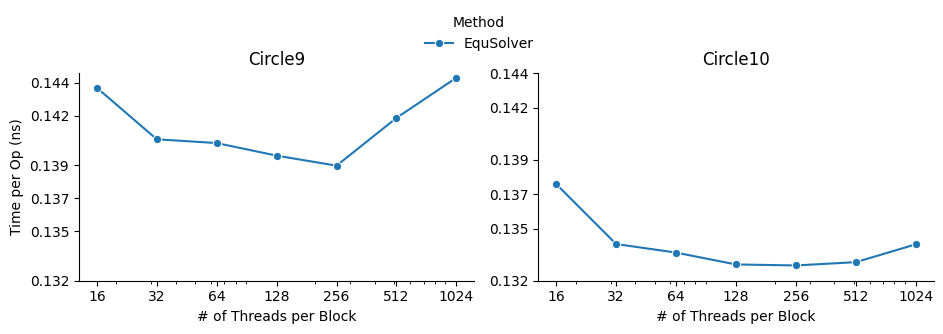
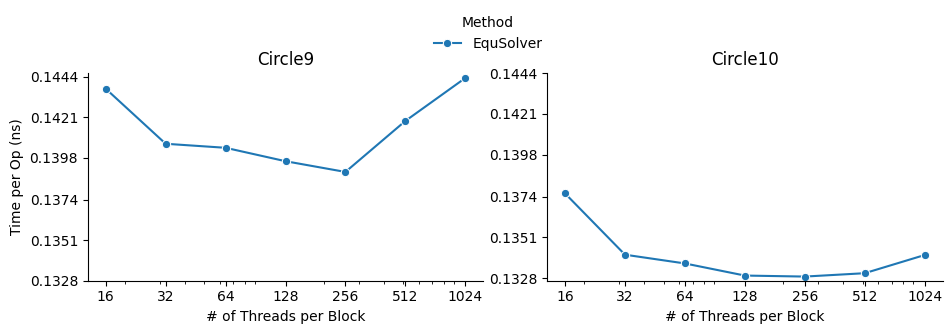
add numba benchmark result

diff --git a/docs/image/plot.py b/docs/image/plot.py
@@ -76,6 +76,8 @@ def benchmark():
   base = []
   for i in [1, 2, 4, 5]:
     base.append(parse_table(raw[i], "benchmark"))
+  tmin = min([i[1] for i in base])
+  tmax = max([i[2] for i in base])
   data = pd.DataFrame(data)
   print(data)
   g = sns.FacetGrid(
@@ -91,10 +93,11 @@ def benchmark():
   g.map(sns.lineplot, "Problem Size", "Time per Op (ns)", marker="o")
 
   g.set_axis_labels("Problem Size", "Time per Op (ns)")
-  g.add_legend(bbox_to_anchor=(0.52, 1.02), ncol=7)
+  g.add_legend(bbox_to_anchor=(0.52, 1.02), ncol=8)
   axes = g.axes.flatten()
   for ax, b in zip(axes, base):
-    b, tmin, tmax = b
+    # b, tmin, tmax = b
+    b = b[0]
     y = np.logspace(math.log10(tmin), math.log10(tmax), 6)
     y = (y * 100).astype(int) / 100.
     ax.set(xscale="log", yscale="log")
@@ -151,8 +154,8 @@ def ablation(backend, new_col):
       y = (y * 100).astype(int) / 100.
       ax.set(xscale="log", yscale="log")
     else:
-      y = np.linspace(tmin, tmax, 6)
-      y = (y * 1000).astype(int) / 1000.
+      y = np.linspace(tmin, tmax + 0.0001, 6)
+      y = (y * 10000).astype(int) / 10000.
       ax.set(xscale="log")
     ax.set(xticks=b, yticks=y)
     ax.set(xticklabels=b, yticklabels=y)

diff --git a/fpie/__init__.py b/fpie/__init__.py
@@ -1,1 +1,1 @@
-__version__ = "0.2.1"
+__version__ = "0.2.2"

diff --git a/docs/benchmark/README.md b/docs/benchmark/README.md
@@ -37,6 +37,9 @@ The benchmark commands for squareX and circleX:
 # numpy
 fpie -s square10.png -t square10.png -m square10.png -o result.png -n 5000 -b numpy --method equ
 fpie -s circle10.png -t circle10.png -m circle10.png -o result.png -n 5000 -b numpy --method equ
+# numba
+fpie -s square10.png -t square10.png -m square10.png -o result.png -n 5000 -b numba --method equ
+fpie -s circle10.png -t circle10.png -m circle10.png -o result.png -n 5000 -b numba --method equ
 # gcc
 fpie -s square10.png -t square10.png -m square10.png -o result.png -n 5000 -b gcc --method equ
 fpie -s circle10.png -t circle10.png -m circle10.png -o result.png -n 5000 -b gcc --method equ
@@ -63,6 +66,7 @@ fpie -s circle10.png -t circle10.png -m circle10.png -o result.png -n 5000 -b ta
 | ---------- | ------- | ------- | -------- | -------- | --------- |
 | # of vars  | 4097    | 16385   | 65537    | 262145   | 1048577   |
 | NumPy      | 0.8367s | 3.2142s | 12.1836s | 52.4939s | 230.5375s |
+| Numba      | 0.7257s | 1.9472s | 7.0761s  | 32.4084s | 149.3390s |
 | GCC        | 0.0740s | 0.3013s | 1.2061s  | 5.0351s  | 22.0276s  |
 | OpenMP     | 0.0176s | 0.0423s | 0.1447s  | 0.5835s  | 8.6203s   |
 | MPI        | 0.0127s | 0.0488s | 0.1757s  | 0.8253s  | 8.3310s   |
@@ -76,6 +80,7 @@ fpie -s circle10.png -t circle10.png -m circle10.png -o result.png -n 5000 -b ta
 | ---------- | ------- | ------- | -------- | -------- | --------- |
 | # of vars  | 4256    | 16676   | 65972    | 262338   | 1049486   |
 | NumPy      | 0.8618s | 3.2280s | 12.5615s | 52.7161s | 226.5578s |
+| Numba      | 0.7430s | 1.9789s | 7.1499s  | 32.1932s | 132.7537s |
 | GCC        | 0.0764s | 0.3062s | 1.2115s  | 4.9785s  | 22.1516s  |
 | OpenMP     | 0.0179s | 0.0391s | 0.1301s  | 0.5177s  | 8.2778s   |
 | MPI        | 0.0131s | 0.0494s | 0.1767s  | 0.8155s  | 8.3823s   |
@@ -93,6 +98,9 @@ The benchmark commands for squareX and circleX:
 # numpy
 fpie -s square10.png -t square10.png -m square10.png -o result.png -n 5000 -b numpy --method grid
 fpie -s circle10.png -t circle10.png -m circle10.png -o result.png -n 5000 -b numpy --method grid
+# numba
+fpie -s square10.png -t square10.png -m square10.png -o result.png -n 5000 -b numba --method grid
+fpie -s circle10.png -t circle10.png -m circle10.png -o result.png -n 5000 -b numba --method grid
 # gcc
 fpie -s square10.png -t square10.png -m square10.png -o result.png -n 5000 -b gcc --method grid --grid-x 8 --grid-y 8
 fpie -s circle10.png -t circle10.png -m circle10.png -o result.png -n 5000 -b gcc --method grid --grid-x 8 --grid-y 8 
@@ -119,6 +127,7 @@ fpie -s circle10.png -t circle10.png -m circle10.png -o result.png -n 5000 -b ta
 | ---------- | ------- | ------- | -------- | -------- | --------- |
 | # of vars  | 4356    | 16900   | 66564    | 264196   | 1052676   |
 | NumPy      | 0.7809s | 2.8823s | 12.3242s | 51.7496s | 209.5504s |
+| Numba      | 1.5838s | 6.0720s | 24.0901s | 99.5048s | 410.6119s |
 | GCC        | 0.0884s | 0.3504s | 1.3832s  | 5.5402s  | 24.6482s  |
 | OpenMP     | 0.0177s | 0.0547s | 0.2011s  | 0.7805s  | 5.4012s   |
 | MPI        | 0.0136s | 0.0516s | 0.1999s  | 0.7956s  | 5.4109s   |
@@ -128,22 +137,23 @@ fpie -s circle10.png -t circle10.png -m circle10.png -o result.png -n 5000 -b ta
 
 <!--benchmark-->
 
-| GridSolver | circle6 | circle7 | circle8  | circle9  | circle10  |
-| ---------- | ------- | ------- | -------- | -------- | --------- |
-| # of vars  | 5476    | 21316   | 84100    | 335241   | 1338649   |
-| NumPy      | 0.8554s | 3.0602s | 13.1915s | 55.3018s | 224.0399s |
-| GCC        | 0.0997s | 0.3768s | 1.4753s  | 5.8558s  | 25.1236s  |
-| OpenMP     | 0.0219s | 0.0670s | 0.2498s  | 0.9838s  | 6.0868s   |
-| MPI        | 0.0155s | 0.0614s | 0.2446s  | 0.9810s  | 5.8527s   |
-| CUDA       | 0.0113s | 0.0150s | 0.0334s  | 0.1507s  | 0.5954s   |
-| Taichi-CPU | 0.5558s | 0.8727s | 1.6317s  | 4.8740s  | 20.2178s  |
-| Taichi-GPU | 0.6447s | 0.6418s | 0.6521s  | 0.8309s  | 1.3578s   |
+| GridSolver | circle6 | circle7 | circle8  | circle9   | circle10  |
+| ---------- | ------- | ------- | -------- | --------- | --------- |
+| # of vars  | 5476    | 21316   | 84100    | 335241    | 1338649   |
+| NumPy      | 0.8554s | 3.0602s | 13.1915s | 55.3018s  | 224.0399s |
+| Numba      | 1.8680s | 7.1174s | 28.1826s | 117.5155s | 481.5718s |
+| GCC        | 0.0997s | 0.3768s | 1.4753s  | 5.8558s   | 25.1236s  |
+| OpenMP     | 0.0219s | 0.0670s | 0.2498s  | 0.9838s   | 6.0868s   |
+| MPI        | 0.0155s | 0.0614s | 0.2446s  | 0.9810s   | 5.8527s   |
+| CUDA       | 0.0113s | 0.0150s | 0.0334s  | 0.1507s   | 0.5954s   |
+| Taichi-CPU | 0.5558s | 0.8727s | 1.6317s  | 4.8740s   | 20.2178s  |
+| Taichi-GPU | 0.6447s | 0.6418s | 0.6521s  | 0.8309s   | 1.3578s   |
 
 <!--benchmark-->
 
 ## Per backend performance
 
-In this section, we will perform ablation studies on OpenMP/MPI/CUDA backend. We use circle9/10 with 5000 iterations as the experiment setting.
+In this section, we will perform ablation studies with OpenMP/MPI/CUDA backend. We use circle9/10 with 5000 iterations as the experiment setting.
 
 ### OpenMP
 

diff --git a/README.md b/README.md
@@ -27,7 +27,8 @@ $ pip install .
 
 | Backend                                        | EquSolver          | GridSolver         | Documentation                                                | Dependency for installation                                  |
 | ---------------------------------------------- | ------------------ | ------------------ | ------------------------------------------------------------ | ------------------------------------------------------------ |
-| NumPy                                          | :heavy_check_mark: | :heavy_check_mark: | [docs](https://github.com/Trinkle23897/Fast-Poisson-Image-Editing/tree/main/docs/backend#numpy) | -                                                            |
+| NumPy                                          | :heavy_check_mark: | :heavy_check_mark: | [docs](https://github.com/Trinkle23897/Fast-Poisson-Image-Editing/tree/main/docs/backend#numpy) | `pip install numpy`                                          |
+| [Numba](https://github.com/numba/numba)        | :heavy_check_mark: | :heavy_check_mark: | [docs](https://github.com/Trinkle23897/Fast-Poisson-Image-Editing/tree/main/docs/backend#numba) | `pip install numba`                                          |
 | GCC                                            | :heavy_check_mark: | :heavy_check_mark: | [docs](https://github.com/Trinkle23897/Fast-Poisson-Image-Editing/tree/main/docs/backend#gcc) | cmake, gcc                                                   |
 | OpenMP                                         | :heavy_check_mark: | :heavy_check_mark: | [docs](https://github.com/Trinkle23897/Fast-Poisson-Image-Editing/tree/main/docs/backend#openmp) | cmake, gcc (on macOS you need to change clang to gcc-11)     |
 | CUDA                                           | :heavy_check_mark: | :heavy_check_mark: | [docs](https://github.com/Trinkle23897/Fast-Poisson-Image-Editing/tree/main/docs/backend#cuda) | nvcc                                                         |
@@ -38,7 +39,7 @@ After installation, you can use `--check-backend` option to verify:
 
 ```bash
 $ fpie --check-backend
-['numpy', 'taichi-cpu', 'taichi-gpu', 'gcc', 'openmp', 'mpi', 'cuda']
+['numpy', 'numba', 'taichi-cpu', 'taichi-gpu', 'gcc', 'openmp', 'mpi', 'cuda']
 ```
 
 The above output shows all extensions have successfully installed.
@@ -89,7 +90,7 @@ We provide a simple GUI for real-time seamless cloning. You need to use your mou
 
 ### Backend and Solver
 
-We have provided 6 backends. Each backend has two solvers: EquSolver and GridSolver. You can find the difference between these two solvers in the next section.
+We have provided 7 backends. Each backend has two solvers: EquSolver and GridSolver. You can find the difference between these two solvers in the next section.
 
 For different backend usage, please check out the related documentation under [docs/backend](/docs/backend).
 

diff --git a/docs/backend/README.md b/docs/backend/README.md
@@ -51,7 +51,31 @@ Time elapsed: 3.09s
 Successfully write image to result.jpg
 ```
 
-For NumPy backend, GridSolver is a little bit faster than EquSolver. However, for other backends, GridSolver is always slower than EquSolver.
+## Numba
+
+This backend use NumPy vectorized operation together with numba jit function for parallel computation.
+
+There's no extra parameter for Numba EquSolver:
+
+```bash
+$ fpie -s test2_src.png -m test2_mask.png -t test2_tgt.png -o result.jpg -h1 130 -w1 130 -n 5000 -g src -b numba --method equ
+Successfully initialize PIE equ solver with numba backend
+# of vars: 12559
+Iter 5000, abs error [449.83978128 445.02560616 635.9542823 ]
+Time elapsed: 1.5883s
+Successfully write image to result.jpg
+```
+
+There's no extra parameter for Numba GridSolver:
+
+```bash
+$ fpie -s test2_src.png -m test2_mask.png -t test2_tgt.png -o result.jpg -h1 130 -w1 130 -n 5000 -g src -b numba --method grid
+Successfully initialize PIE grid solver with numba backend
+# of vars: 17227
+Iter 5000, abs error [449.89603 445.08475 635.89545]
+Time elapsed: 5.6462s
+Successfully write image to result.jpg
+```
 
 ## GCC
 
